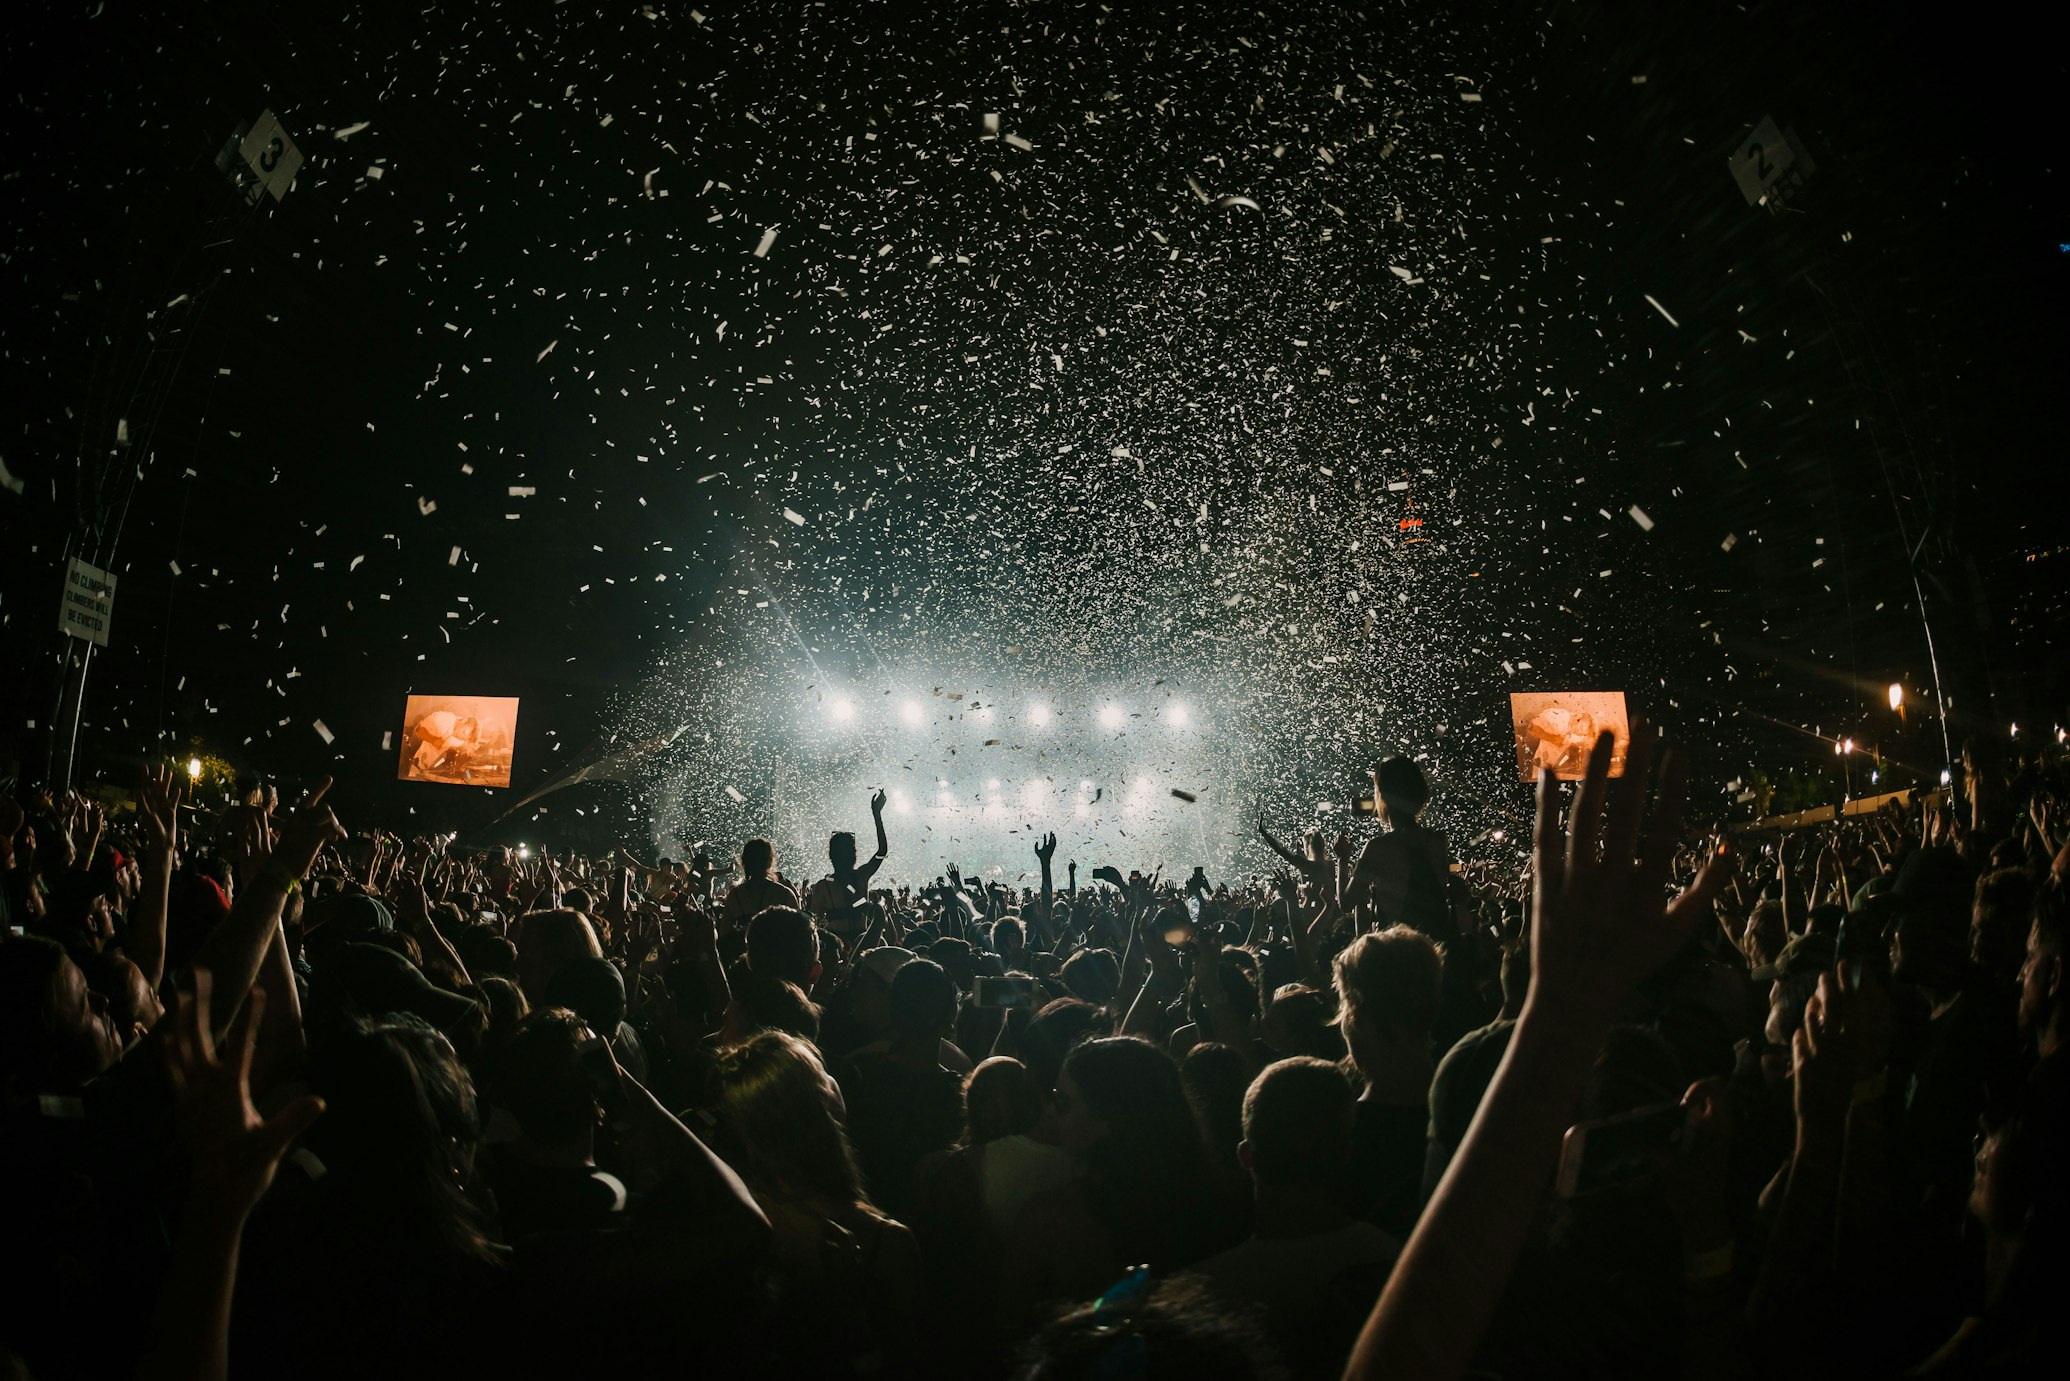
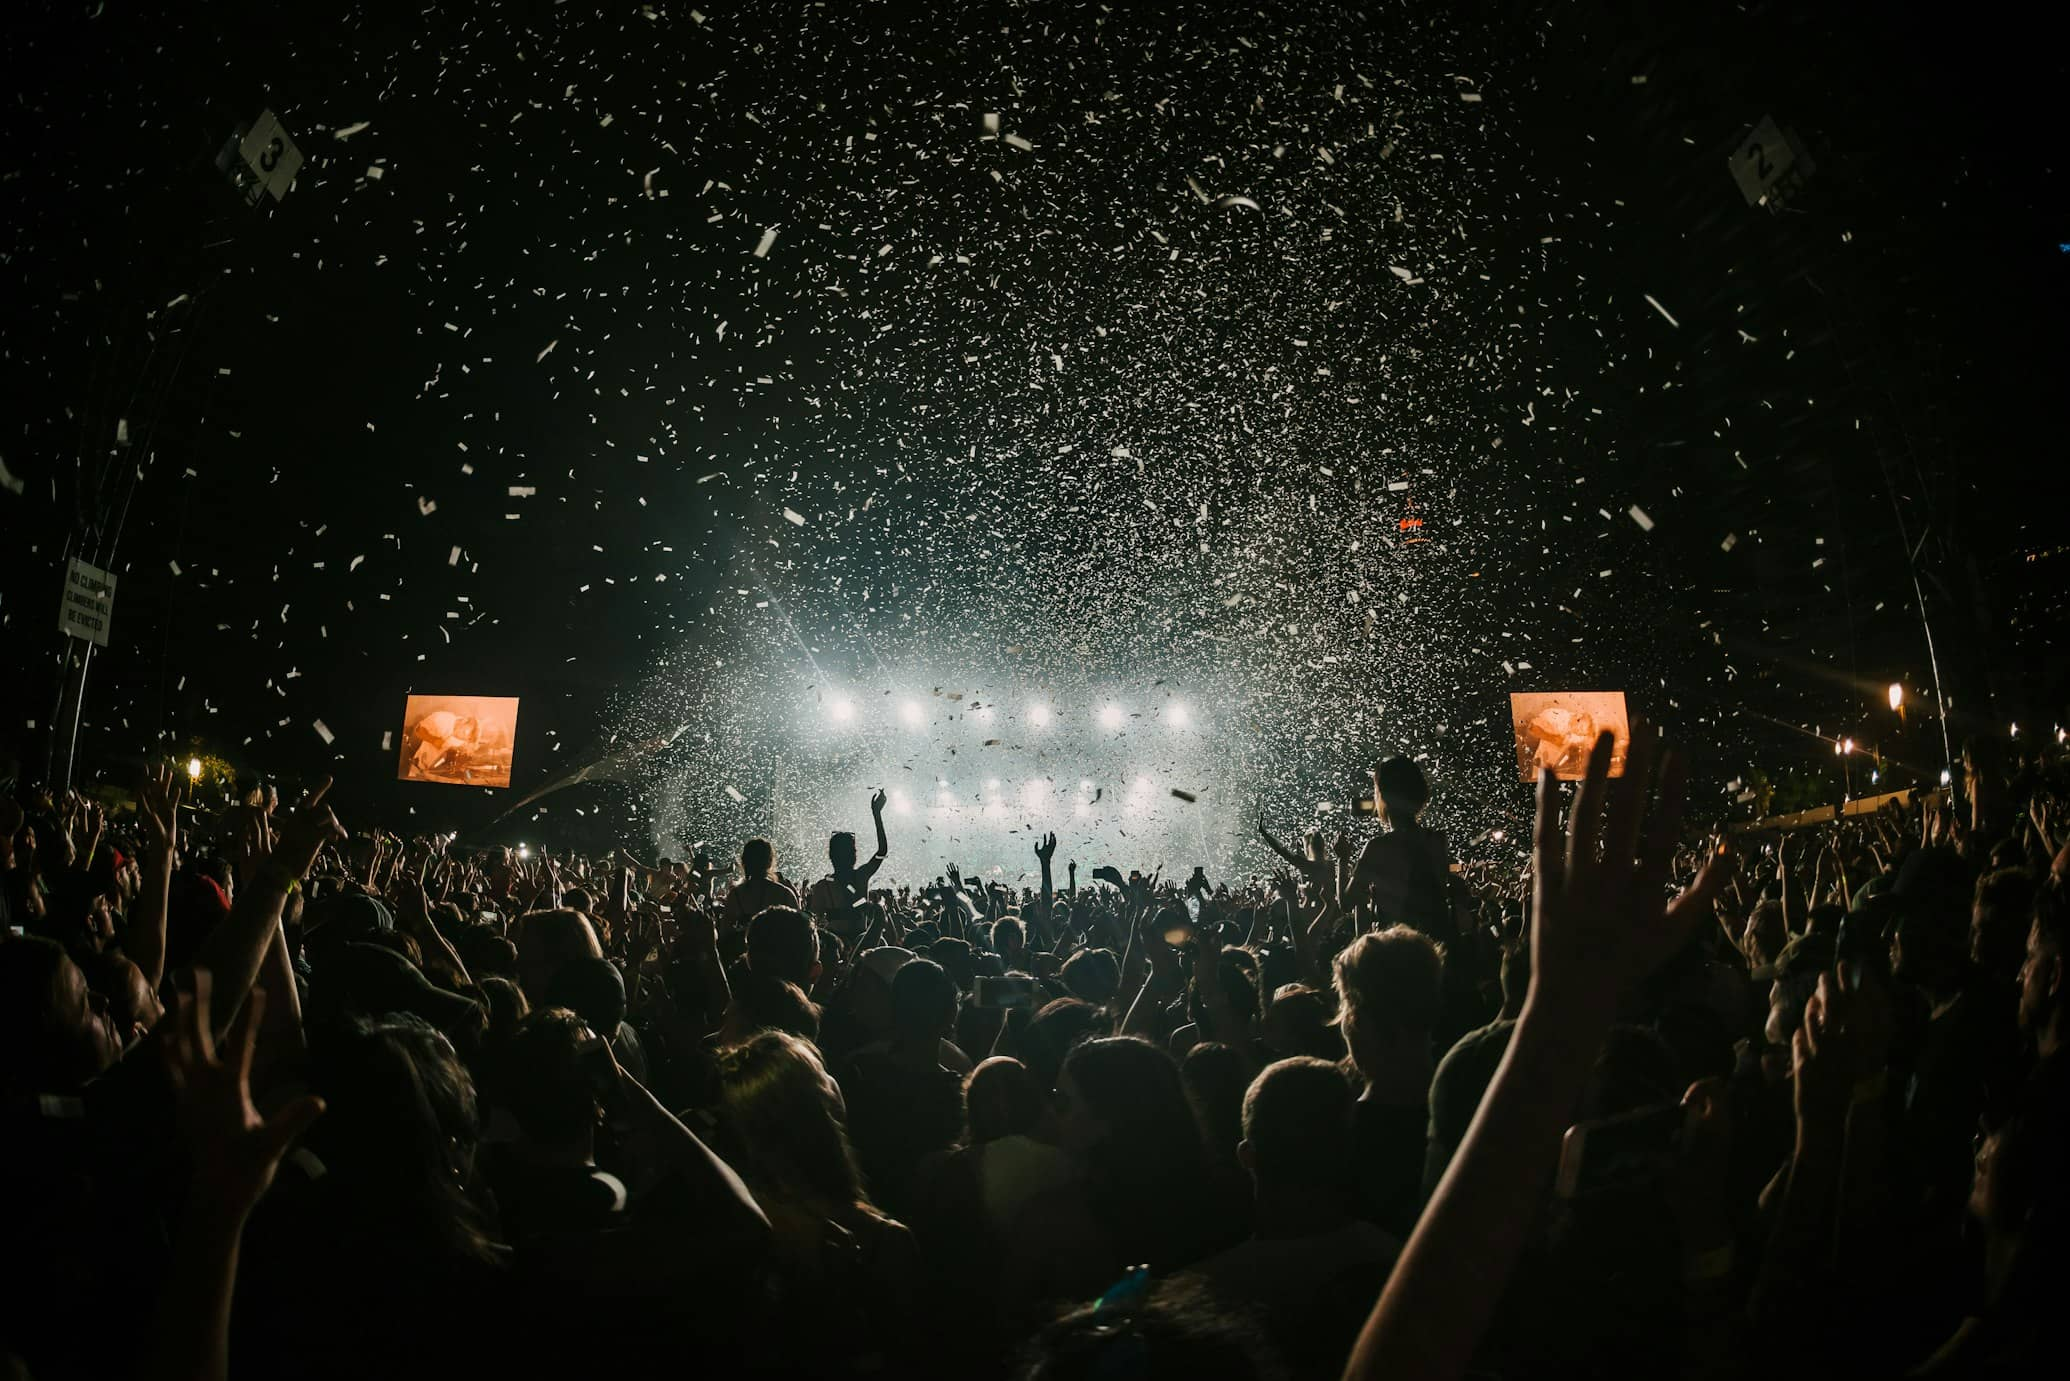
compress image and upload

Changed region(s): [[0.4638, 0.2802, 0.7111, 0.6227], [0.3401, 0.5916, 0.371, 0.6227], [0.3092, 0.5293, 0.3401, 0.5605]]

diff --git a/src/pages/About/Components/Whatwedo.jsx b/src/pages/About/Components/Whatwedo.jsx
@@ -3,6 +3,13 @@ import { Briefcase, Wind, MapPin, Music, Camera, Utensils, Flower2, Star, ArrowR
 import { useNavigate } from "react-router-dom";
 import about13 from "../../../assets/about/about13.avif";
 import about from "../../../assets/home/home10.avif";
+import about15 from "../../../assets/about/about15.jpg";
+import about16 from "../../../assets/about/about16.jpg";
+import about17 from "../../../assets/about/about17.jpg";
+import about18 from "../../../assets/about/about18.avif";
+import about19 from "../../../assets/about/about19.jpg";
+import about20 from "../../../assets/about/about20.jpg";
+import about21 from "../../../assets/about/about21.jpg";
 
 const services = [
   {
@@ -15,43 +22,43 @@ const services = [
     icon: Wind, label: "Dream Weddings", tag: "Romance", short: "Weddings",
     desc: "Breathtaking ceremonies, floral elegance & memories that last forever.",
     color: "#1e0533", accent: "#a21caf", light: "#fae8ff",
-    image: "https://images.unsplash.com/photo-1519741497674-611481863552?w=800&q=80",
+    image: about15,
   },
   {
     icon: MapPin, label: "Destination", tag: "Travel", short: "Destination",
     desc: "Exotic venues, seamless logistics & world-class global event execution.",
     color: "#052e16", accent: "#16a34a", light: "#dcfce7",
-    image: "https://images.unsplash.com/photo-1476514525535-07fb3b4ae5f1?w=800&q=80",
+    image: about16,
   },
   {
     icon: Music, label: "Live Concerts", tag: "Music", short: "Live Music",
     desc: "World-class artists, electrifying DJs & live experiences your guests will rave about.",
     color: "#2d1000", accent: "#ea580c", light: "#ffedd5",
-    image: "https://images.unsplash.com/photo-1459749411175-04bf5292ceea?w=800&q=80",
+    image: about17,
   },
   {
     icon: Camera, label: "Photography", tag: "Visuals", short: "Photo & Film",
     desc: "Cinematic storytelling, aerial drone footage & award-winning post-production.",
     color: "#0c0c2e", accent: "#7c3aed", light: "#ede9fe",
-    image: "https://img.freepik.com/free-photo/professional-equipment-camera-tripod-stand-field-front-prepared-table-evening-time_146671-14420.jpg?semt=ais_hybrid&w=740&q=80",
+    image: about18,
   },
   {
     icon: Utensils, label: "Fine Catering", tag: "Gourmet", short: "Catering",
     desc: "Michelin-inspired menus, live cooking stations & world-class bar service.",
     color: "#3d0808", accent: "#dc2626", light: "#fee2e2",
-    image: "https://images.unsplash.com/photo-1414235077428-338989a2e8c0?w=800&q=80",
+    image: about19,
   },
   {
     icon: Flower2, label: "Floral Design", tag: "Décor", short: "Florals",
     desc: "Bespoke installations, archways & centrepieces that define the space.",
     color: "#2d0a24", accent: "#db2777", light: "#fce7f3",
-    image: "https://www.bhg.com/thmb/X-fiFcZvQMn5RkW482EjBsJjDRw=/1080x0/filters:no_upscale():strip_icc()/arranging-cala-lilly-with-floral-arrangement-889361ea-35648aff84214c6192cb3a5692a5a2ee.jpg",
+    image: about20,
   },
   {
     icon: Star, label: "VIP Experience", tag: "Exclusive", short: "VIP",
     desc: "Priority access, private lounges, concierge & red-carpet treatment.",
     color: "#0f1f05", accent: "#65a30d", light: "#ecfccb",
-    image: "https://images.unsplash.com/photo-1531058020387-3be344556be6?w=800&q=80",
+    image: about21,
   },
 ];
 

diff --git a/src/pages/Services/Components/Servicescontent.jsx b/src/pages/Services/Components/Servicescontent.jsx
@@ -7,14 +7,14 @@ import {
 import { motion, AnimatePresence } from 'framer-motion';
 
 // --- Local Image Imports ---
-import corporate1 from '../../../assets/images/corporate1.JPG';
-import corporate2 from '../../../assets/images/corporate2.JPG';
+import corporate1 from '../../../assets/images/corporate1.jpg';
+import corporate2 from '../../../assets/images/corporate2.jpg';
 import conference1 from '../../../assets/images/2onference1.JPG';
 import conference2 from '../../../assets/images/2onference2.JPG';
 import conference3 from '../../../assets/images/2onference3.JPG';
-import productLaunch1 from '../../../assets/images/ProductLaunche1.JPG';
-import productLaunch2 from '../../../assets/images/ProductLaunche2.JPG';
-import productLaunch3 from '../../../assets/images/ProductLaunche3.JPG';
+import productLaunch1 from '../../../assets/images/ProductLaunche1.jpg';
+import productLaunch2 from '../../../assets/images/ProductLaunche2.jpg';
+import productLaunch3 from '../../../assets/images/ProductLaunche3.jpg';
 import home1 from '../../../assets/home/home1.jpeg';
 import home4 from '../../../assets/home/home4.jpeg';
 import img12 from '../../../assets/images/12.png';

diff --git a/src/pages/About/Components/Aboutimage.jsx b/src/pages/About/Components/Aboutimage.jsx
@@ -6,12 +6,14 @@ import about8 from "../../../assets/about/about1.jpg";
 import about9 from "../../../assets/home/home14.jpg";
 import about10 from "../../../assets/about/about10.jpg";
 import about12 from "../../../assets/about/about12.jpg";
+import about14 from "../../../assets/about/about8.jpg";
+import about13 from "../../../assets/about/about21.jpg";
 
 const partySets = [
   {
     id: 1,
     hero: about5,
-    sideTop: "https://images.pexels.com/photos/2747449/pexels-photo-2747449.jpeg?cs=srgb&dl=pexels-wolfgang-1002140-2747449.jpg&fm=jpg",
+    sideTop: about14,
     sideBottom: about7,
     extraLeft: about8,
   },
@@ -19,7 +21,7 @@ const partySets = [
     id: 2,
     hero: about9,
     sideTop: about10,
-    sideBottom: "https://visionphoto.ca/wp-content/uploads/2025/04/2025_JUNOS_Vancouver_VCC_InnovationLighting_006_Web.jpg",
+    sideBottom: about13,
     extraLeft: about12,
   }
 ];

diff --git a/src/pages/Home/Components/Tradepartner.jsx b/src/pages/Home/Components/Tradepartner.jsx
@@ -1,9 +1,9 @@
 import React, { useState } from "react";
 import home1 from "../../../assets/home/home1.jpeg";
 import home2 from "../../../assets/home/home1.jpg";
-import home3 from "../../../assets/home/home2.png";
-import home4 from "../../../assets/home/home3.png";
-import home5 from "../../../assets/home/home4.png";
+import home3 from "../../../assets/home/home2.jpg";
+import home4 from "../../../assets/home/home3.jpg";
+import home5 from "../../../assets/home/home4.jpg";
 
 import conferenceImg from "../../../assets/home/home4.jpeg";
 const services = [
